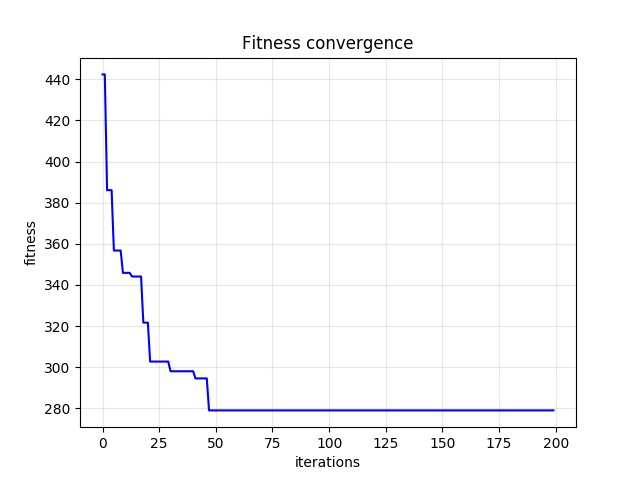
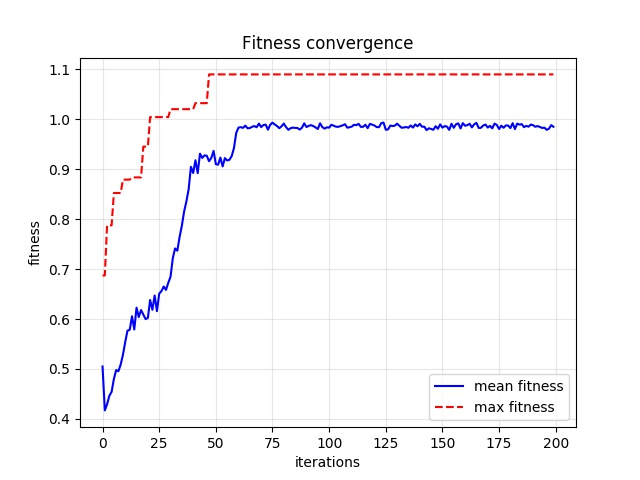
Change fitness
Fitness maximization + plots in run.py

diff --git a/genetic_algorithm.py b/genetic_algorithm.py
@@ -1,8 +1,8 @@
 import numpy as np
-import matplotlib.pyplot as plt
+from tqdm import tqdm
 
 
-class GeneticAlgorithm():
+class GeneticAlgorithm:
     """
     Genetic algorithm for TSP.
     """
@@ -71,7 +71,7 @@ class GeneticAlgorithm():
                                        + (self.loc_cities[individual[-1]][1] - self.loc_cities[individual[0]][1])**2)**0.5
             else:
                 fitness_individual = np.inf
-            fitness_population[idx] = fitness_individual
+            fitness_population[idx] = 4 * max(max(self.loc_cities)) / fitness_individual
 
         return fitness_population.flatten()
 
@@ -123,7 +123,7 @@ class GeneticAlgorithm():
         next_population = np.array([np.zeros([self.N, ], dtype=int) for _ in range(self.population_size)])
 
         # Select best individuals
-        best_individuals = np.argsort(fitness)
+        best_individuals = np.argsort(fitness)[::-1]
 
         for individual in range(self.num_selected):
             next_population[individual] = population[best_individuals[individual]]
@@ -146,7 +146,7 @@ class GeneticAlgorithm():
 
         return next_population
 
-    def run(self, iter_info=10):
+    def run(self):
         """
         Runs the algorithm.
 
@@ -159,24 +159,14 @@ class GeneticAlgorithm():
         # Initialize first population
         population = self.random_population(self.population_size)
 
-        fitness_all = []
+        # Initialize fitness variables
+        mean_fitness = []
+        max_fitness = []
 
-        for iteration in range(self.num_iterations):
+        for iteration in tqdm(range(self.num_iterations), ncols=75):
             fitness = self.compute_fitness(population)
-            fitness_all.append(min(fitness))
             population = self.next_population(population, fitness)
-            if iteration % iter_info == 0:
-                print(f"Iteration: {iteration} Best fitness: {fitness_all[-1]}")
+            max_fitness.append(np.max(fitness))
+            mean_fitness.append(np.mean(fitness))
 
-        plt.figure()
-        plt.plot(range(len(fitness_all)), fitness_all, 'b')
-        plt.xlabel('iterations')
-        plt.ylabel('fitness')
-        plt.title('Fitness convergence')
-        plt.grid(alpha=0.3)
-        plt.savefig('images/convergence.jpg')
-        plt.show()
-
-        best_individual = population[0]
-
-        return best_individual
+        return population[0], max_fitness, mean_fitness

diff --git a/run.py b/run.py
@@ -6,6 +6,7 @@ from genetic_algorithm import GeneticAlgorithm
 seed = 1234
 np.random.seed(seed)
 
+# Initialize cities
 num_cities = 15
 map_size = 100
 loc_cities = []
@@ -40,7 +41,19 @@ num_mutated = 25
 
 # Initialize algorithm
 genetic = GeneticAlgorithm(loc_cities, num_iterations, num_selected, num_children, num_immigrants, num_mutated)
-best_path = genetic.run()
+best_path, max_fitness, mean_fitness = genetic.run()
+
+# Plot algorithm convergence
+fig = plt.figure()
+plt.plot(range(len(mean_fitness)), mean_fitness, 'b')
+plt.plot(range(len(max_fitness)), max_fitness, 'r--')
+plt.legend(("mean fitness", "max fitness"))
+plt.xlabel('iterations')
+plt.ylabel('fitness')
+plt.title('Fitness convergence')
+plt.grid(alpha=0.3)
+plt.savefig('images/convergence.jpg')
+plt.show()
 
 # Plot best path
 fig = plt.figure()
